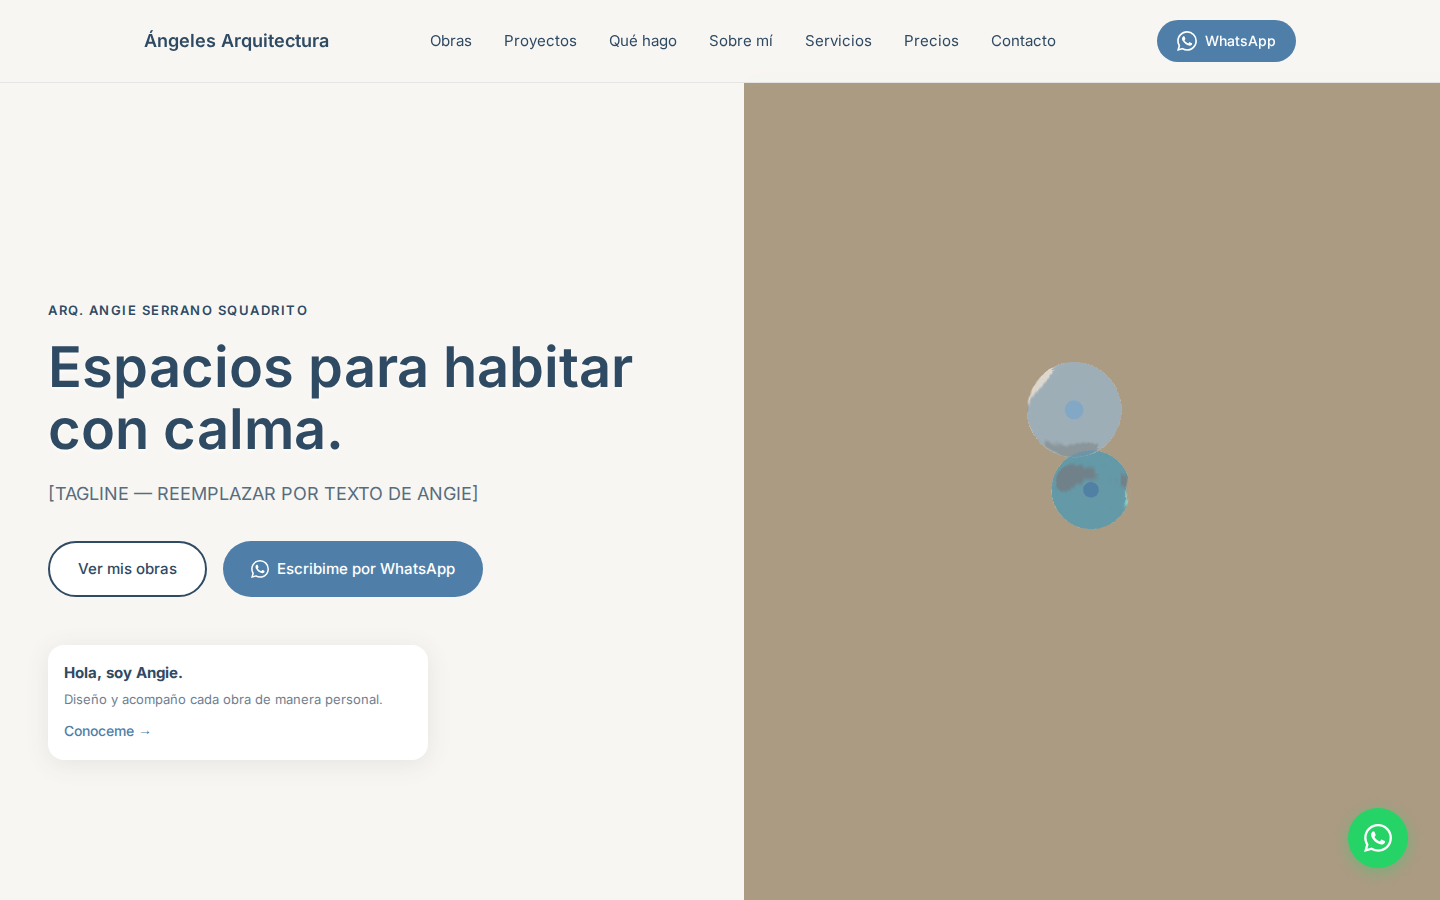
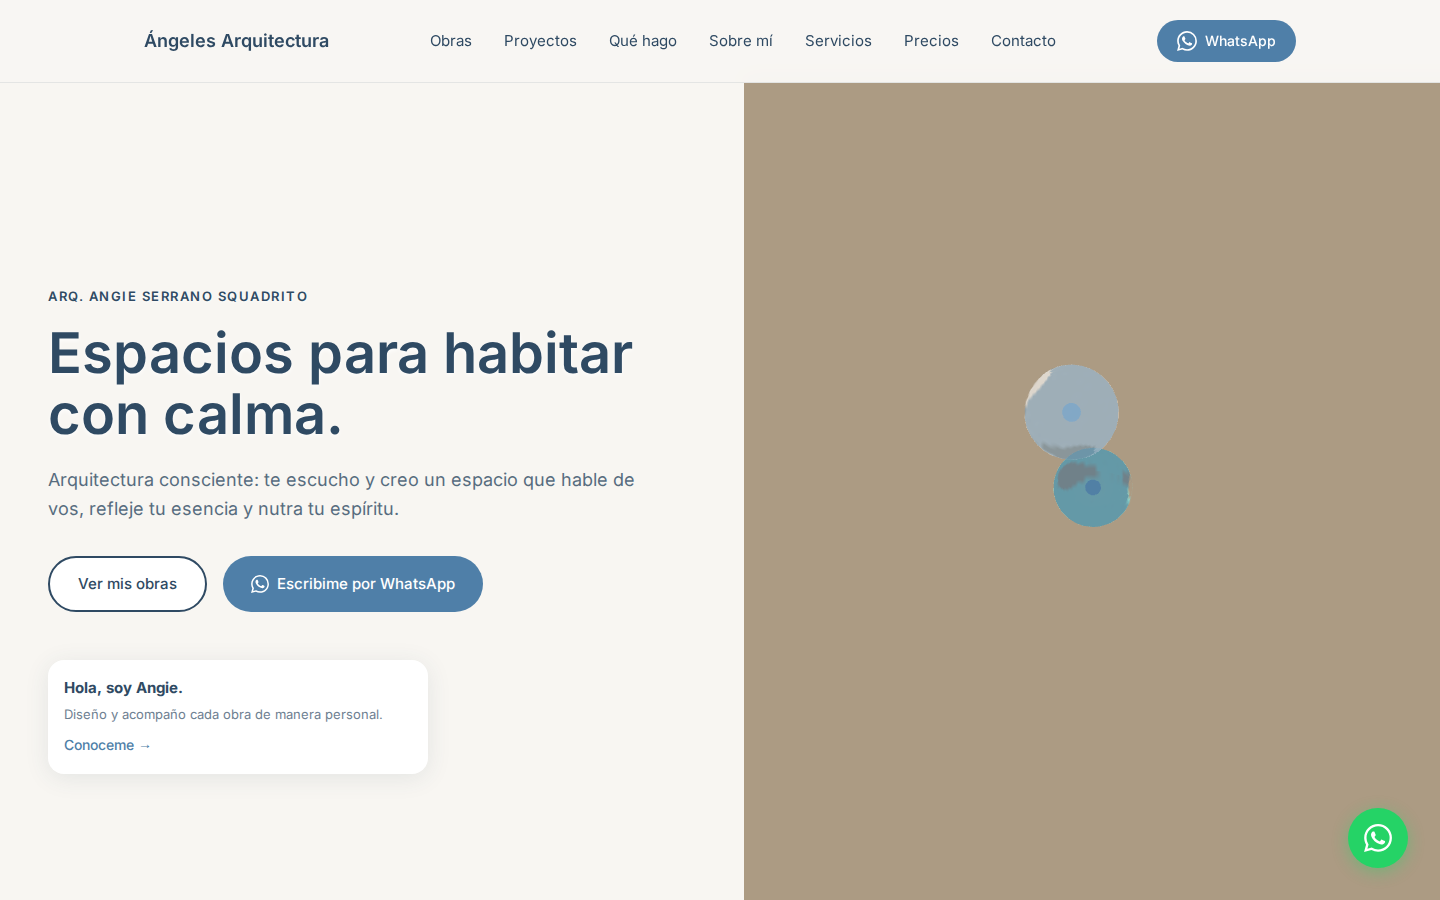
fix: Replace tagline (layout already balanced 50/50)

diff --git a/index.html b/index.html
@@ -62,7 +62,7 @@
             <div class="hero-content">
                 <p class="hero-subtitle">ARQ. ANGIE SERRANO SQUADRITO</p>
                 <h1 class="hero-title">Espacios para habitar con calma.</h1>
-                <p class="hero-tagline">[TAGLINE — REEMPLAZAR POR TEXTO DE ANGIE]</p>
+                <p class="hero-tagline">Arquitectura consciente: te escucho y creo un espacio que hable de vos, refleje tu esencia y nutra tu espíritu.</p>
                 <div class="hero-buttons">
                     <a href="#obras" class="btn btn-secondary">Ver mis obras</a>
                     <a href="https://wa.me/542617685148?text=Hola%20Angie,%20me%20gustar%C3%ADa%20consultarte%20sobre" class="btn btn-primary" target="_blank" rel="noopener noreferrer">
